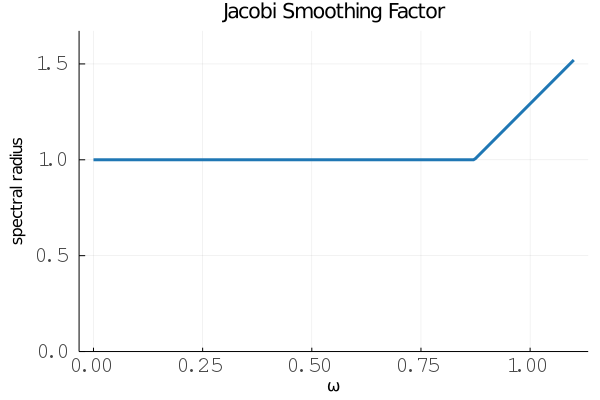
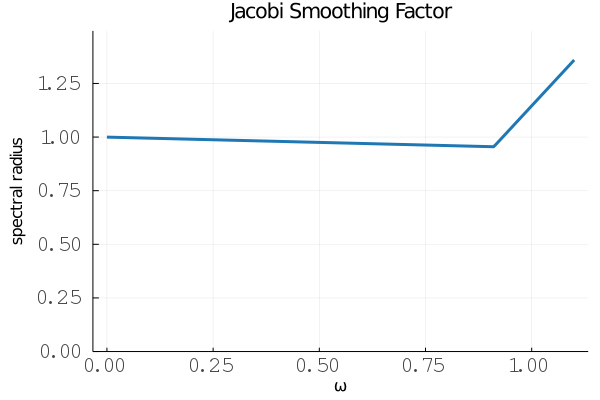
update smothing factor plots for high frequency

diff --git a/papers/copper-mountain-2021/lfa_pmultigrid_high_order_fem.tex b/papers/copper-mountain-2021/lfa_pmultigrid_high_order_fem.tex
@@ -152,7 +152,7 @@ This definition can be extended to a $p \times p$ linear system of operators by
 where $\tilde{L}_h^{i, j}$, $i, j \in \lbrace 1, 2, \dots, p \rbrace$ are given by scalar Toeplitz operators describing how component $j$ appears in the equation for component $i$.
 
 For a system of equations representing an error propagation operator in a relaxation scheme, the spectral radius of the symbol matrix determines now rapidly the scheme decreases error at a target frequency.
-Low frequencies are given by $\theta \in T^{\text{low}} = \left[ - \pi / 2, \pi / 2 \right)$ and high frequencies are given by $\theta \in T^{\text{high}} = \left[ - \pi / 2, 3 \pi / 2 \right) \setminus T^{\text{low}}$. % TODO: or be honest and call it [-\pi, \pi) \setminus T^{\text{low}}
+Low frequencies are given by $\theta \in T^{\text{low}} = \left[ - \pi / 2, \pi / 2 \right)$ and high frequencies are given by $\theta \in T^{\text{high}} = \left[ - \pi / 2, 3 \pi / 2 \right) \setminus T^{\text{low}}$.
 
 % -----------------------------------------------------------------------------
 \section{Local Fourier Analysis for P-Multigrid}\label{sec:lfa}
@@ -192,11 +192,11 @@ Selecting a finite element basis, we can discretize this weak form and produce
 Using the algebraic representation of PDE operators given in \cite{brown2010efficient}, the PDE operator $\mathbf{A}$ is of the form
 \begin{equation}\label{efficienthighorder}
 \begin{split}
-\mathbf{A} = \mathbf{P}^T \mathbf{A}_e \mathbf{P}\\
+\mathbf{A} = \mathbf{G}^T \mathbf{A}_e \mathbf{G}\\
 \mathbf{A}_e = \mathbf{B}^T \mathbf{D} \mathbf{B}
 \end{split}
 \end{equation}
-where $\mathbf{P}$ represents the element assembly operator, $\mathbf{B}$ is a basis operator which computes the values and derivatives of the basis functions at the quadrature points, and $\mathbf{D}$ is a block diagonal operator which provides the pointwise application of the bilinear form on the quadrature points, to include quadrature weights and the change in coordinates between the physical and reference space.
+where $\mathbf{G}$ represents the element assembly operator, $\mathbf{B}$ is a basis operator which computes the values and derivatives of the basis functions at the quadrature points, and $\mathbf{D}$ is a block diagonal operator which provides the pointwise application of the bilinear form on the quadrature points, to include quadrature weights and the change in coordinates between the physical and reference space.
 
 Consider the specific case of a Topeliz operator representing an arbitrary second order scalar PDE in 1D with basis of polynomial order $p$ given in the form of \cref{pdediscrete} and \cref{efficienthighorder}.
 The nodes on the left and right boundaries of the element map to the same Fourier mode due to periodicity, so we can compute the symbol matrix as
@@ -265,9 +265,13 @@ We omit this optimization in LFAToolkit in favor of supporting second-order PDEs
 % -----------------------------------------------------------------------------
 
 Multigrid methods require a fine grid smoother, typically applied both before and after the coarse grid correction is computed.
-In this section, we compute the error propegation operator for two polynomial smoothers, Jacobi and Chebyshev.
+In this section, we compute the error propegation operator and smoothing factor for two polynomial smoothers, Jacobi and Chebyshev.
 
 The error propagation operator for a smoother is given by $\mathbf{S} = \mathbf{I} - \mathbf{M}^{-1} \mathbf{A}$, where $\mathbf{M}^{-1}$ is given by the particular smoother under investigation.
+The LFA predicted smoothing factor is given by the maximum spectral radius of the symbol across high frequencies
+\begin{equation}
+\mu = \max_{\boldsymbol{\theta} \in T^{\text{high}}} \left\lvert \tilde{\mathbf{S}} \left( \nu, \omega, \boldsymbol{\theta} \right) \right\rvert.
+\end{equation}
 
 % -----------------------------------------------------------------------------
 \subsubsection{Jacobi Smoother}\label{sec:jacobi}
@@ -297,11 +301,6 @@ where $\nu$ is the number of smoothing passes and $\omega$ is the smoothing para
   \subfloat[Smoothing Factor of Jacobi for $p = 4$]{\includegraphics[width=0.48\textwidth]{img/jacobi_smoothing_5}\label{fig:jacobi_smooth_factor}}
   \caption{Jacobi smoothing for high-order finite elements}
 \end{figure}
-
-The LFA predicted smoothing factor is given by the maximum spectral radius of the symbol across all frequencies
-\begin{equation}
-\mu = \max_{\boldsymbol{\theta} \in T} \left\lvert \tilde{\mathbf{S}} \left( \nu, \omega, \boldsymbol{\theta} \right) \right\rvert.
-\end{equation}
 
 Using Definition \ref{def:jacobi_symbol}, we plot the eigenvalues of $\tilde{\mathbf{M}}^{-1} \tilde{\mathbf{A}} \left( \boldsymbol{\theta} \right)$ in \cref{fig:jacobi_spectrum} for the one dimensional Laplacian with a 4th order H1 Lagrange basis on Gauss-Lobatto points.
 In \cref{fig:jacobi_smooth_factor} we plot the LFA predicted smoothing factor for Jacobi smoothing as a function of the smoothing parameter $\omega$.
@@ -531,7 +530,6 @@ As expected, the two-grid convergence factor decreases as we coarsen more rapidl
   \toprule
   $p_{\text{fine}}$ to $p_{\text{coarse}}$  &  $\omega = 1$   &  $\omega = 2$   &  $\omega = 3$   &  $\omega = 4$   \\
   %\cmidrule(lr){2-3} \cmidrule(lr){4-5} \cmidrule(lr){6-7}
-                                            &  $\rho_{\min}$  &  $\rho_{\min}$  &  $\rho_{\min}$  &  $\rho_{\min}$  \\
   \midrule
   $p = 2$ to $p = 1$          &  1.679  &  1.317  &  0.434  &  0.022  \\
   %\midrule
@@ -608,7 +606,6 @@ The results in \cref{table:two_grid_2d} provide the minimal LFA smoothing factor
   \toprule
   $p_{\text{fine}}$ to $p_{\text{coarse}}$  &  $\omega = 1$   &  $\omega = 2$   &  $\omega = 3$   &  $\omega = 4$   \\
   %\cmidrule(lr){2-3} \cmidrule(lr){4-5} \cmidrule(lr){6-7}
-                                            &  $\rho_{\min}$  &  $\rho_{\min}$  &  $\rho_{\min}$  &  $\rho_{\min}$  \\
   \midrule
   $p = 2$ to $p = 1$          &  0.330  &  0.363  &  0.194  &  0.026  \\
   %\midrule
